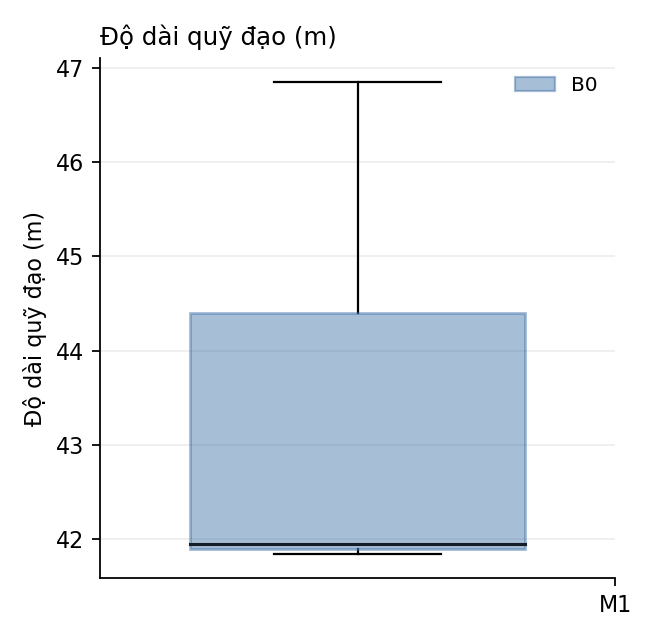
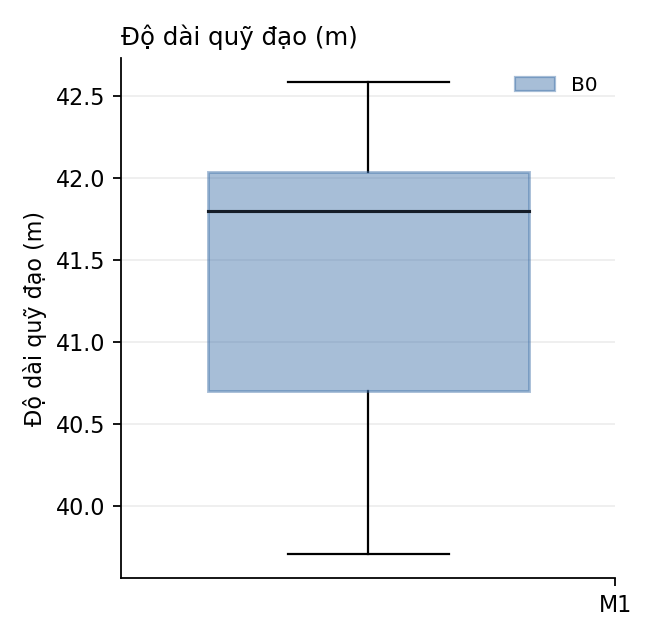
M2: sua phep do S_J, bo sung v_cmd_axis_max, 5 luot chay

diff --git a/thesis_tools/benchmark_tools/scripts/metric_logger.py b/thesis_tools/benchmark_tools/scripts/metric_logger.py
@@ -51,7 +51,7 @@ except ImportError:
 FIELDS = [
     "map", "config", "trial",
     "success", "collided", "timed_out",
-    "T_f", "L", "v_mean", "v_max", "S_J", "d_min",
+    "T_f", "L", "v_mean", "v_max", "v_cmd_max","v_cmd_axis_max", "S_J", "j_rms", "dacc_mean", "dacc_max", "d_min",
     "N_replan", "N_fail",
     "t_fe_mean", "t_fe_max", "t_be_mean", "t_be_max", "t_be_p95",
     "start_x", "start_y", "goal_x", "goal_y",
@@ -72,7 +72,7 @@ class MetricLogger(object):
         self.goal_tol   = float(rospy.get_param("~goal_tol", 0.6))
         self.uav_radius = float(rospy.get_param("~uav_radius", 0.2))
         self.goal_delay = float(rospy.get_param("~goal_delay", 4.0))
-
+        self.v_cmd_axis_max = 0.0
         self.lock = threading.Lock()
         self.finished = False
 
@@ -94,6 +94,9 @@ class MetricLogger(object):
         self.prev_acc   = None
         self.prev_acc_t = None
         self.jerk_sq_int = 0.0
+        self.prev_tid    = None
+        self.joint_jumps = []
+        self.v_cmd_max   = 0.0
 
         self.t_fe_list  = []
         self.t_be_list  = []
@@ -192,13 +195,29 @@ class MetricLogger(object):
             a = np.array([msg.acceleration.x,
                           msg.acceleration.y,
                           msg.acceleration.z])
+            tid = msg.trajectory_id
+            vc = float(np.linalg.norm([msg.velocity.x,
+                                       msg.velocity.y,
+                                       msg.velocity.z]))
+            va = max(abs(msg.velocity.x), abs(msg.velocity.y), abs(msg.velocity.z))
+            if va > self.v_cmd_axis_max:
+                self.v_cmd_axis_max = va                           
+            if vc > self.v_cmd_max:
+                self.v_cmd_max = vc
             if self.prev_acc is not None:
                 dt = t - self.prev_acc_t
                 if 1e-4 < dt < 0.2:
-                    j = (a - self.prev_acc) / dt
-                    self.jerk_sq_int += float(np.dot(j, j)) * dt
-            self.prev_acc = a
+                    if tid == self.prev_tid:
+                        # cùng một quỹ đạo: jerk thật, cộng vào S_J
+                        j = (a - self.prev_acc) / dt
+                        self.jerk_sq_int += float(np.dot(j, j)) * dt
+                    else:
+                        # mối nối giữa hai quỹ đạo: ghi riêng, không cộng vào S_J
+                        self.joint_jumps.append(
+                            float(np.linalg.norm(a - self.prev_acc)))
+            self.prev_acc   = a
             self.prev_acc_t = t
+            self.prev_tid   = tid
 
     # ------------------------------------------------------------------
     def cb_timing(self, msg):
@@ -261,6 +280,8 @@ class MetricLogger(object):
         v = np.array(self.v_list) if self.v_list else np.array([0.0])
         fe = np.array(self.t_fe_list) if self.t_fe_list else np.array([0.0])
         be = np.array(self.t_be_list) if self.t_be_list else np.array([0.0])
+        dacc  = np.array(self.joint_jumps) if self.joint_jumps else np.array([0.0])
+        j_rms = math.sqrt(self.jerk_sq_int / T_f) if T_f > 1e-6 else 0.0
 
         row = {
             "map": self.map_name,
@@ -273,7 +294,12 @@ class MetricLogger(object):
             "L": round(self.path_len, 3),
             "v_mean": round(float(v.mean()), 3),
             "v_max": round(float(v.max()), 3),
+            "v_cmd_max": round(self.v_cmd_max, 3),
+            "v_cmd_axis_max": round(self.v_cmd_axis_max, 3),
             "S_J": round(self.jerk_sq_int, 3),
+            "j_rms": round(j_rms, 3),
+            "dacc_mean": round(float(dacc.mean()), 3),
+            "dacc_max": round(float(dacc.max()), 3),
             "d_min": round(self.d_min, 4) if math.isfinite(self.d_min) else "",
             "N_replan": self.n_replan,
             "N_fail": self.n_fail,

diff --git a/results/summary/bang_ket_qua.tex b/results/summary/bang_ket_qua.tex
@@ -1,12 +1,12 @@
 \begin{table}[htbp]
 \centering
-\caption{Kết quả thực nghiệm, trung bình $\pm$ độ lệch chuẩn trên 3 lượt chạy}
+\caption{Kết quả thực nghiệm, trung bình $\pm$ độ lệch chuẩn trên 5 lượt chạy}
 \label{tab:ket-qua}
 \begin{tabular}{llrrrrrr}
 \hline
-Bản đồ & Cấu hình & SR (\%) & Thời gian bay (s) & Độ dài quỹ đạo (m) & Độ mượt S\_J & Khoảng cách an toàn min (m) & Thời gian back-end (ms) \\
+Bản đồ & Cấu hình & SR (\%) & Thời gian bay (s) & Độ dài quỹ đạo (m) & Độ mượt S\_J (đã loại mối nối) & Khoảng cách an toàn min (m) & Thời gian back-end (ms) \\
 \hline
-M1 & B0 & 100.0 & 16.70 $\pm$ 1.32 & 43.55 $\pm$ 2.86 & 287.26 $\pm$ 247.05 & 0.23 $\pm$ 0.03 & 1.56 $\pm$ 0.16 \\
+M1 & B0 & 100.0 & 16.46 $\pm$ 1.00 & 41.37 $\pm$ 1.15 & 95.64 $\pm$ 45.65 & 0.33 $\pm$ 0.08 & 1.46 $\pm$ 0.23 \\
 \hline
 \end{tabular}
 \end{table}

diff --git a/thesis_tools/benchmark_tools/scripts/analyze.py b/thesis_tools/benchmark_tools/scripts/analyze.py
@@ -36,8 +36,11 @@ DEFAULT_OUT = os.path.expanduser(
 METRICS = [
     ("T_f",       "Thời gian bay (s)"),
     ("L",         "Độ dài quỹ đạo (m)"),
-    ("v_mean",    "Vận tốc TB (m/s)"),
-    ("S_J",       "Độ mượt S_J"),
+    ("v_mean",         "Vận tốc TB (m/s)"),
+    ("v_cmd_axis_max", "Vận tốc lệnh cực đại theo trục (m/s)"),
+    ("S_J",       "Độ mượt S_J (đã loại mối nối)"),
+    ("j_rms",     "Jerk hiệu dụng (m/s³)"),
+    ("dacc_max",  "Gián đoạn mối nối lớn nhất (m/s²)"),
     ("d_min",     "Khoảng cách an toàn min (m)"),
     ("t_fe_mean", "Thời gian front-end (ms)"),
     ("t_be_mean", "Thời gian back-end (ms)"),

diff --git a/results/summary/bang_ket_qua.md b/results/summary/bang_ket_qua.md
@@ -2,6 +2,6 @@
 
 Mỗi ô: trung bình ± độ lệch chuẩn. Cột N là số lượt chạy.
 
-| Bản đồ | Cấu hình | N | SR (%) | Va chạm | Quá giờ | Thời gian bay (s) | Độ dài quỹ đạo (m) | Vận tốc TB (m/s) | Độ mượt S_J | Khoảng cách an toàn min (m) | Thời gian front-end (ms) | Thời gian back-end (ms) | Back-end phân vị 95 (ms) | Số lần lập lại |
-|---|---|---|---|---|---|---|---|---|---|---|---|---|---|---|
-| M1 | B0 | 3 | 100.0 | 0 | 0 | 16.70 ± 1.32 | 43.55 ± 2.86 | 2.71 ± 0.20 | 287.26 ± 247.05 | 0.23 ± 0.03 | 0.28 ± 0.01 | 1.56 ± 0.16 | 3.71 ± 1.01 | 32.00 ± 2.00 |
+| Bản đồ | Cấu hình | N | SR (%) | Va chạm | Quá giờ | Thời gian bay (s) | Độ dài quỹ đạo (m) | Vận tốc TB (m/s) | Vận tốc lệnh cực đại theo trục (m/s) | Độ mượt S_J (đã loại mối nối) | Jerk hiệu dụng (m/s³) | Gián đoạn mối nối lớn nhất (m/s²) | Khoảng cách an toàn min (m) | Thời gian front-end (ms) | Thời gian back-end (ms) | Back-end phân vị 95 (ms) | Số lần lập lại |
+|---|---|---|---|---|---|---|---|---|---|---|---|---|---|---|---|---|---|
+| M1 | B0 | 5 | 100.0 | 0 | 0 | 16.46 ± 1.00 | 41.37 ± 1.15 | 2.61 ± 0.20 | 3.00 ± 0.00 | 95.64 ± 45.65 | 2.33 ± 0.61 | 0.43 ± 0.31 | 0.33 ± 0.08 | 0.34 ± 0.13 | 1.46 ± 0.23 | 3.64 ± 0.83 | 35.20 ± 12.32 |
